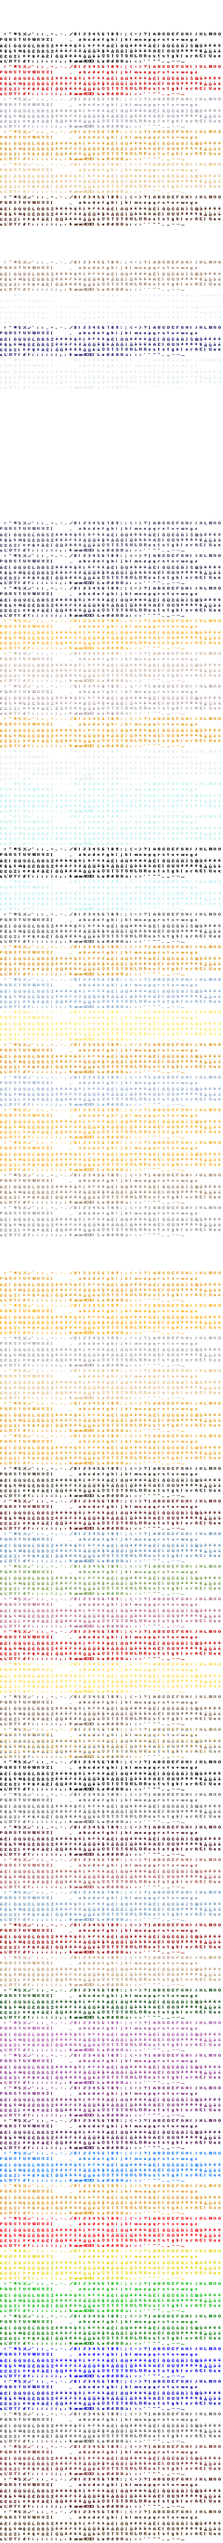
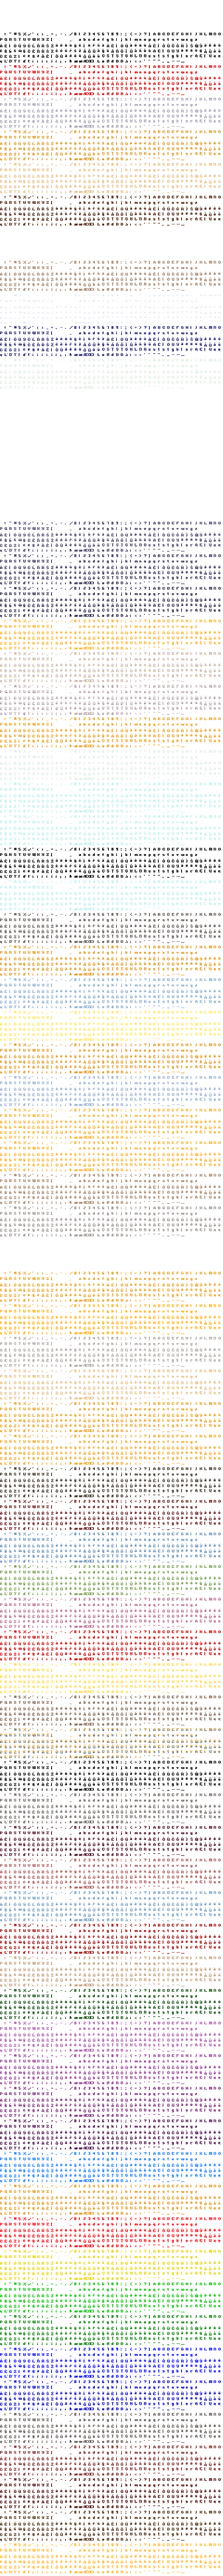
Client: original colours for battle info, unit-sheet abilities list and chancellor; ramps documented
Claude-Session: https://claude.ai/code/session_01UzZBhwt2FKjV12uJDZtxw8

Changed region(s): [[0.0, 0.1868, 1.0, 1.0], [0.0, 0.0, 1.0, 0.1557]]

diff --git a/crates/f4x-client/src/battle_info.rs b/crates/f4x-client/src/battle_info.rs
@@ -2,7 +2,8 @@
 //! effects in force on the field and each wizard's own spells, over the battle. Any key or
 //! click closes it.
 
-use crate::font::Style;
+use crate::font::{Effect, Ink, Style};
+use crate::font_ramp;
 use crate::input::Input;
 use f4x_core::battle::info::{BattleInfo, InfoItem};
 use f4x_core::text::Args;
@@ -16,7 +17,14 @@ const COLUMN: f32 = 112.0;
 /// The picture's width (`compix.lbx` 56 to 58).
 const WIDTH: f32 = 234.0;
 const TEXT_STYLE: usize = 2;
-const TEXT: Color = Color::new(0.98, 0.86, 0.45, 1.0);
+
+/// `Set_Font_Colors_15(2, {250, 177})` with `Shadow_Down` and outline colour 254: palette colour 177
+/// on its own, a dark shadow (254 is per screen).
+fn text_style() -> Style {
+    Style::inked(TEXT_STYLE, Ink::Set(font_ramp::flat(177)))
+        .effect(Effect::Shadow)
+        .edge(Color::new(0.0, 0.0, 0.0, 1.0))
+}
 
 /// Where the window's cells go: the cell's column and row, the common items first.
 struct Layout {
@@ -158,7 +166,7 @@ impl App {
             if let Some(name) = &info.opponent_name {
                 self.draw_styled(
                     view,
-                    &Style::nearest(TEXT_STYLE, TEXT).center(),
+                    &text_style().center(),
                     &self.text_with("battle.spells_of", &Args::new().text("wizard", name)),
                     LEFT + 54.0,
                     lay.top + heading,
@@ -167,7 +175,7 @@ impl App {
             if let Some(name) = &info.viewer_name {
                 self.draw_styled(
                     view,
-                    &Style::nearest(TEXT_STYLE, TEXT).center(),
+                    &text_style().center(),
                     &self.text_with("battle.spells_of", &Args::new().text("wizard", name)),
                     LEFT + 170.0,
                     lay.top + heading,
@@ -217,13 +225,7 @@ impl App {
                 );
             }
             let name = self.text(item.key);
-            self.draw_styled(
-                view,
-                &Style::nearest(TEXT_STYLE, TEXT),
-                &name,
-                x + 20.0,
-                y + 5.0,
-            );
+            self.draw_styled(view, &text_style(), &name, x + 20.0, y + 5.0);
         }
 
         input.key_pressed(KeyCode::Escape)

diff --git a/crates/f4x-client/src/chancellor.rs b/crates/f4x-client/src/chancellor.rs
@@ -4,7 +4,8 @@
 //! Escape, Enter or a click rolls it up; U, D, the arrows or the wheel scroll a long one.
 //! The "End of Turn Summary" switch of the Settings page turns it off.
 
-use crate::font::Style;
+use crate::font::{Ink, Style};
+use crate::font_ramp;
 use crate::input::Input;
 use f4x_core::game::{Event, LossCause};
 use f4x_core::rules::SpellTarget;
@@ -362,7 +363,7 @@ impl App {
                 if scroll.sections.is_empty() {
                     app.draw_styled(
                         view,
-                        &Style::nearest(4, Color::new(0.4, 0.05, 0.02, 1.0)).center(),
+                        &Style::inked(4, Ink::Set(font_ramp::flat(47))).center(),
                         &app.text("chancellor.nothing"),
                         158.0,
                         y,
@@ -371,7 +372,7 @@ impl App {
                 for s in &scroll.sections {
                     app.draw_styled(
                         view,
-                        &Style::nearest(4, Color::new(0.4, 0.05, 0.02, 1.0)).center(),
+                        &Style::inked(4, Ink::Set(font_ramp::flat(47))).center(),
                         &s.title,
                         165.0,
                         y,
@@ -380,7 +381,7 @@ impl App {
                     for line in &s.lines {
                         app.draw_styled(
                             view,
-                            &Style::nearest(1, Color::new(0.2, 0.1, 0.04, 1.0)),
+                            &Style::inked(1, Ink::Set(font_ramp::flat(55))),
                             line,
                             70.0,
                             y,

diff --git a/crates/f4x-client/src/font_ramp.rs b/crates/f4x-client/src/font_ramp.rs
@@ -127,8 +127,10 @@ pub(crate) const FLAT_45: usize = 75;
 pub(crate) const FLAT_47: usize = 76;
 /// palette colour 55 on its own.
 pub(crate) const FLAT_55: usize = 77;
+/// palette colour 177 on its own.
+pub(crate) const FLAT_177: usize = 78;
 /// How many ramps there are; the atlases of styles 0 to 5 stack 16 + this many colour sets.
-pub(crate) const COUNT: usize = 62;
+pub(crate) const COUNT: usize = 63;
 
 /// The colour set of one palette colour on its own (`FLATS` in the script); a colour not
 /// listed there panics: add it to `FLATS` and run the script again.
@@ -158,6 +160,7 @@ pub(crate) fn flat(index: u8) -> usize {
         45 => FLAT_45,
         47 => FLAT_47,
         55 => FLAT_55,
+        177 => FLAT_177,
         other => panic!("{other}"),
     }
 }

diff --git a/crates/f4x-client/src/font.rs b/crates/f4x-client/src/font.rs
@@ -176,6 +176,13 @@ impl Style {
             .edge(rgb(0x14, 0x45, 0x45))
     }
 
+    /// The unit sheet's abilities list (`USW_DrawListPage`): style 2 in the `UV_LIST` ramp, outlined.
+    pub(crate) fn unit_list() -> Style {
+        Style::inked(2, Ink::Set(crate::font_ramp::UV_LIST))
+            .effect(Effect::Outline)
+            .edge(rgb(0x14, 0x45, 0x45))
+    }
+
     /// The race and population line, the turns to build: style 1 in the ramp of
     /// `Set_Font_Colors_15(0, 190 179)` with `Shadow_Down` and `Set_Outline_Color(19)`.
     pub(crate) fn city_figures() -> Style {

diff --git a/crates/f4x-client/src/unit_screen.rs b/crates/f4x-client/src/unit_screen.rs
@@ -369,7 +369,7 @@ impl App {
                 }
                 (None, None) => {}
             }
-            self.draw_styled(view, &Style::unit_view(1), &special.name, x + 19.0, y + 5.0);
+            self.draw_styled(view, &Style::unit_list(), &special.name, x + 19.0, y + 5.0);
             let asking = panel.confirm || panel.turn_off.is_some();
             if let (true, false, Some(spell), Source::Overland(unit)) =
                 (special.removable, asking, special.spell, sheet.source)

diff --git a/scripts/font_ramps.py b/scripts/font_ramps.py
@@ -63,7 +63,7 @@ RAMPS = [
 
 # Palette indexes the original makes a one-colour set of (`colors[0..5] = banner_colors[...]`): the
 # banner colours of the wizards' names and enchantments. `flat(index)` in `font_ramp.rs` gives the set.
-FLATS = [0, 6, 39, 43, 98, 166, 50, 79, 123, 124, 125, 127, 172, 179, 201, 211, 216, 218, 221, 222, 5, 45, 47, 55]
+FLATS = [0, 6, 39, 43, 98, 166, 50, 79, 123, 124, 125, 127, 172, 179, 201, 211, 216, 218, 221, 222, 5, 45, 47, 55, 177]
 
 
 def palette_lookup():

diff --git a/docs/extract-art.md b/docs/extract-art.md
@@ -223,6 +223,17 @@ pick the same palette the game had loaded when it showed a picture, or the colou
   the style number in ReMoM is the style number here. Which style a label uses is read from the
   screen's draw function in ReMoM. The client mostly uses styles 1 and 3, and 5 for titles; task
   118 moves the rest over.
+- **Colour ramps** (`scripts/font_ramps.py`, `content/font_colour_ramps.ron`, `crates/f4x-client/src/font_ramp.rs`):
+  the original builds most text colours at run time with `Set_Font_Colors_15(style, colours)`, not from the 16
+  sets. The script lists each such ramp (`RAMPS`: a name, the screen whose palette applies, the palette
+  indexes of colour 1 to n; entry 0 of the original's array is an alias and ignored) and the single palette
+  colours (`FLATS`, `font_ramp::flat(index)`). Run it, then `extract-art`, then copy the atlases
+  (`style*.fnt` and `.png` of `fonts/bmfont/`) to `crates/f4x-client/assets/fonts/`: the ramps become sets 16
+  and up. Use one with `Style::inked(font, Ink::Set(font_ramp::NAME))`, and `.effect(Effect::Shadow |
+  Outline | OutlineHeavy)` with `.edge(colour)` for `Set_Font_Style_Shadow_Down / Outline / Outline_Heavy`
+  and `Set_Outline_Color`. Outline colours from palette index 224 up belong to a screen's own palette: read
+  them from that screen's palette in ReMoM, or approximate and say so in a comment. The atlas must stay under
+  16384 pixels (`docs/KNOWLEDGE.md`).
 - Not done: `Print_Paragraph` word wrap and justification (task 118), and the outline, shadow and
   colour-table variants of the font calls (only `Style::outlined` and `.shadow()`).
 
